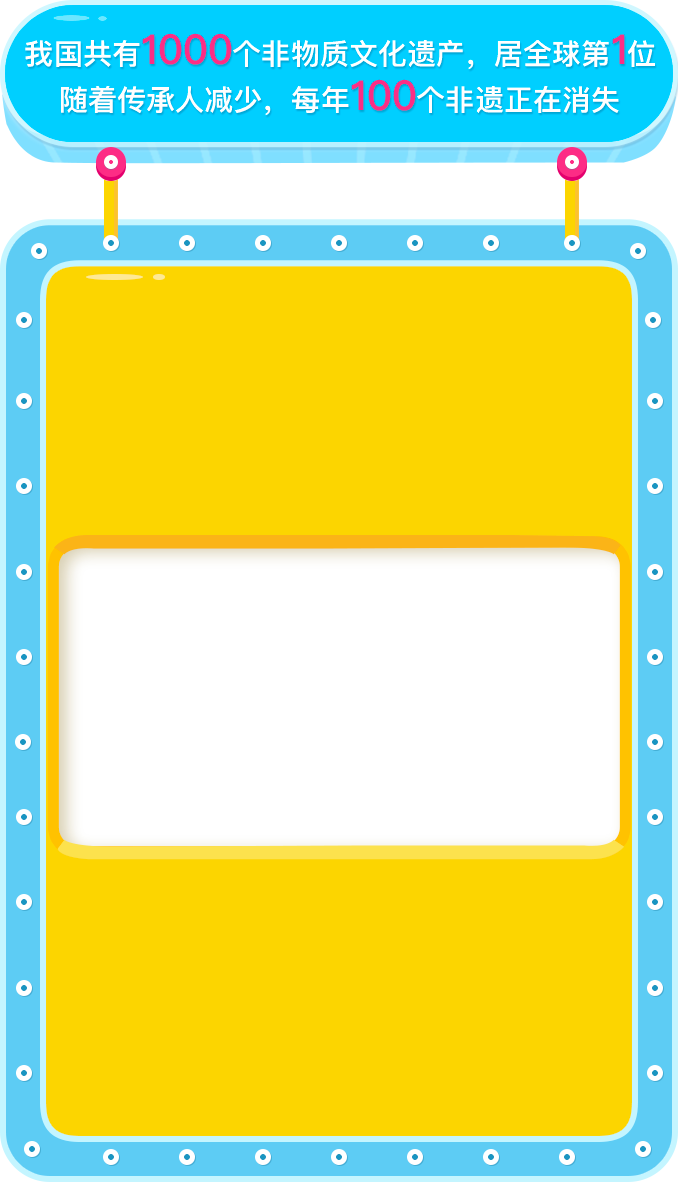
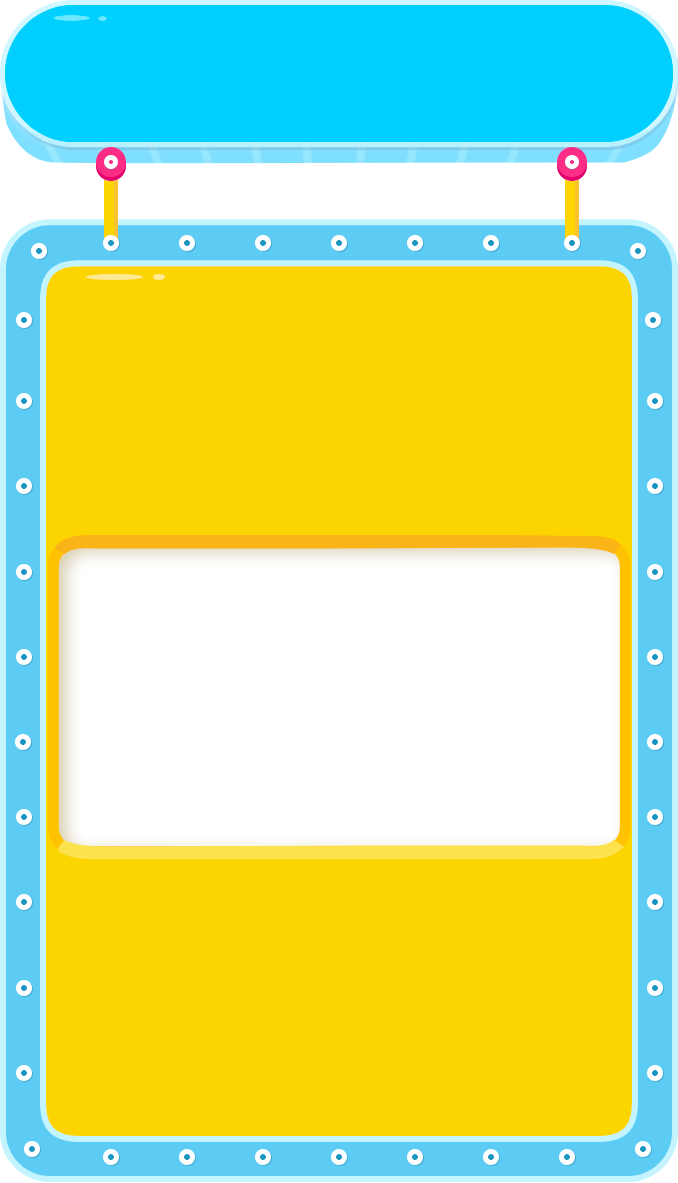
cheer1

Changed region(s): [[0.031, 0.0304, 0.9602, 0.1217]]

diff --git a/src/scss/cheer_1.scss b/src/scss/cheer_1.scss
@@ -67,6 +67,24 @@
         margin: 0 auto pxToRem(80px);
         position: relative;
 
+        .main-title{
+            @include font-dpr(30px,40px);
+            color: #ffffff;
+            text-align: center;
+            margin: 0 auto;
+            position: absolute;
+            top: pxToRem(30px);
+            left: 0;
+            right: 0;
+            letter-spacing: pxToRem(-1px);
+            font-weight: bold;
+
+            .main-title-number{
+                @include font-dpr(40px,40px);
+                color: #ea4684;
+            }
+        }
+
         .main-header{
             width: pxToRem(534px);
             height: pxToRem(128px);
@@ -81,10 +99,11 @@
 
             .head{
                 position: absolute;
-                width: pxToRem(118px);
+                width: pxToRem(117px);
                 height: pxToRem(117px);
                 top: pxToRem(4px);
                 left: pxToRem(5px);
+                border-radius: 100%;
             }
             .header-word{
                 color: #58595b;
@@ -165,5 +184,14 @@
         background-image: url('../images/cheer1/invitation.png');
         background-repeat: no-repeat;
         background-size: 100% 100%;
+    }
+}
+
+@media (device-width:320px) and (-webkit-min-device-pixel-ratio:2){/* 兼容iphone4/5 */
+    .cheer1-container .main .main-title {
+        @include font-dpr(25px,35px);
+    }
+    .cheer1-container .main .main-title .main-title-number{
+        @include font-dpr(35px,35px);
     }
 }

diff --git a/html/cheer_1.html b/html/cheer_1.html
@@ -128,6 +128,10 @@
 <body>
     <div class="cheer1-container">
         <div class="main">
+            <p class="main-title">
+                我国共有<span class="main-title-number">1000</span>个非物质文化遗产，居全球第<span class="main-title-number">1</span>位<br>
+                随着传承人减少，每年<span class="main-title-number">100</span>个非遗正在消失
+            </p>
             <div class="main-header">
                 <img class="head" src="../static/images/cheer1/head.png" />
                 <p class="header-word">
